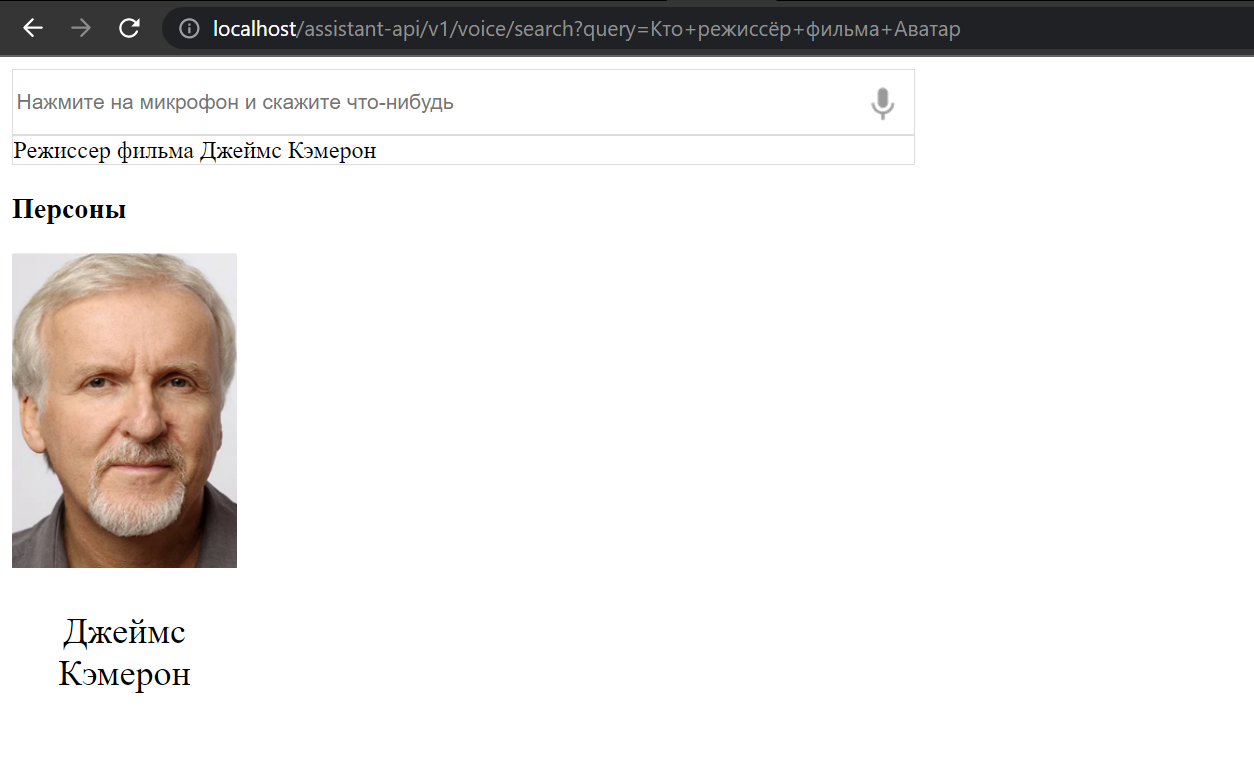
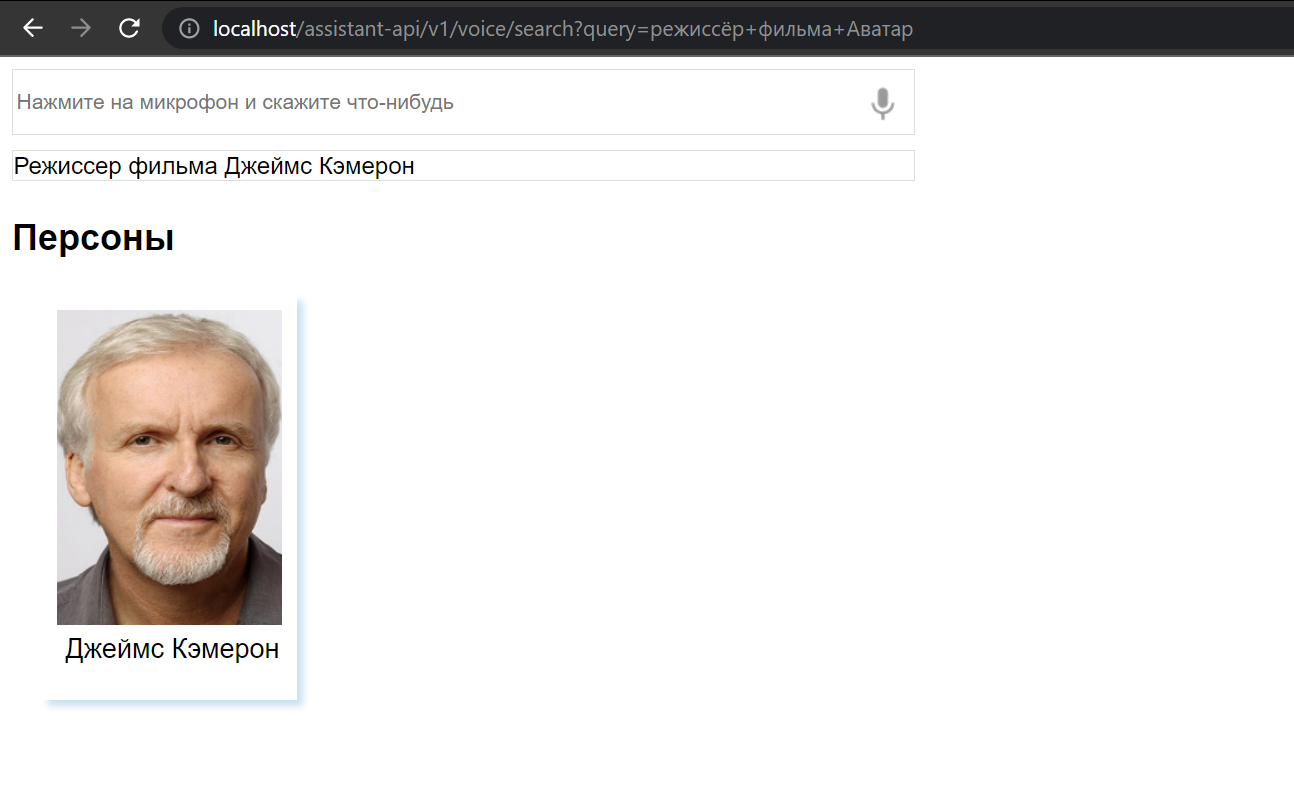
changed css styles

Changed region(s): [[0.0, 0.2462, 0.2488, 0.8923], [0.0, 0.0, 1.0, 0.2154]]

diff --git a/assistant_api/templates/index.html b/assistant_api/templates/index.html
@@ -27,26 +27,26 @@
 
   {% if persons %}
 	<h3>Персоны</h3>
-	<div>
   {% for person in persons %}
+	<div class="card">
       <span class="search_result">
           <img src="/media/{{ person.photo_path }}" width="150" height="210"/>
-          <p class="personName">{{ person.name }}</p>
+          <p class="card-text">{{ person.name }}</p>
       </span>
+  </div>
   {% endfor %}
-	</div>
   {% endif %}
 
   {% if films %}
 	<h3>Фильмы</h3>
-	<div>
   {% for film in films %}
+	<div class="card">
       <span class="search_result">
           <img src="/media/{{ film.screenshot_path }}" width="150" height="210"/>
-          <p class="personName">{{ film.title }}</p>
+          <p class="card-text">{{ film.title }}</p>
       </span>
+  </div>
   {% endfor %}
-	</div>
   {% endif %}
 
   <script src="/static/assistant/js/speechRecognition.js"></script>

diff --git a/assistant_api/static/css/style.css b/assistant_api/static/css/style.css
@@ -1,8 +1,16 @@
+body {
+  font-family: 'Helvetica', 'Arial', sans-serif;
+}
+
+h3 {
+  font-size: 24px;
+}
+
 .speech {
   border: 1px solid #ddd;
   width: 600px;
   padding: 0;
-  margin: 0;
+  margin: 0 0 10px;
 }
 
 .speech input {
@@ -24,13 +32,6 @@ span.search_result {
   vertical-align: top;
 }
 
-.personName {
-  font-size: 24px;
-  font-weight: 500;
-  width: 150px;
-  text-align: center;
-}
-
 table, th, td {
   border: 1px solid black;
   border-collapse: collapse;
@@ -43,4 +44,22 @@ table, th, td {
 .question_table th, td {
   width: 50%;
   height: 30px;
+}
+
+.card {
+  width: 150px;
+  height: 250px;
+  margin-bottom: 60px;
+  margin-left: 20px;
+  padding: 10px;
+  display: inline-block;
+  box-shadow: 4px 4px 5px #c6dff2;
+}
+
+.card-text {
+  font-size: 18px;
+  font-weight: 500;
+  width: 150px;
+  text-align: center;
+  margin: 2px;
 }

diff --git a/README.md b/README.md
@@ -57,7 +57,7 @@ https://github.com/AlexanderNkn/graduate_work
 - перейдите по адресу http://localhost/admin/ и заполните соответствующие формы с фильмами, персонами и жанрами. 
 - ETL процесс каждые 5 мин (значение можно изменить в переменных окружения) переносит новые фильмы, персоны и жанры в базу ElasticSearch. После этого данные будут доступны в поисковом сервисе movies_api.
 - Перейдите по адресу http://localhost/assistant-api/v1/voice/search, нажмите на иконку с микрофоном и произнесите вопрос. Должны услышать ответ и увидеть данные на экране
-![поиск режиссера](docs/screenshots/director_search.png)
+![поиск фильмов](docs/screenshots/movie_search.png)
 
 ## Распределенная трассировка
 - Распределенная трассировка реализована с помощью jaeger-client и opentelemetry.
